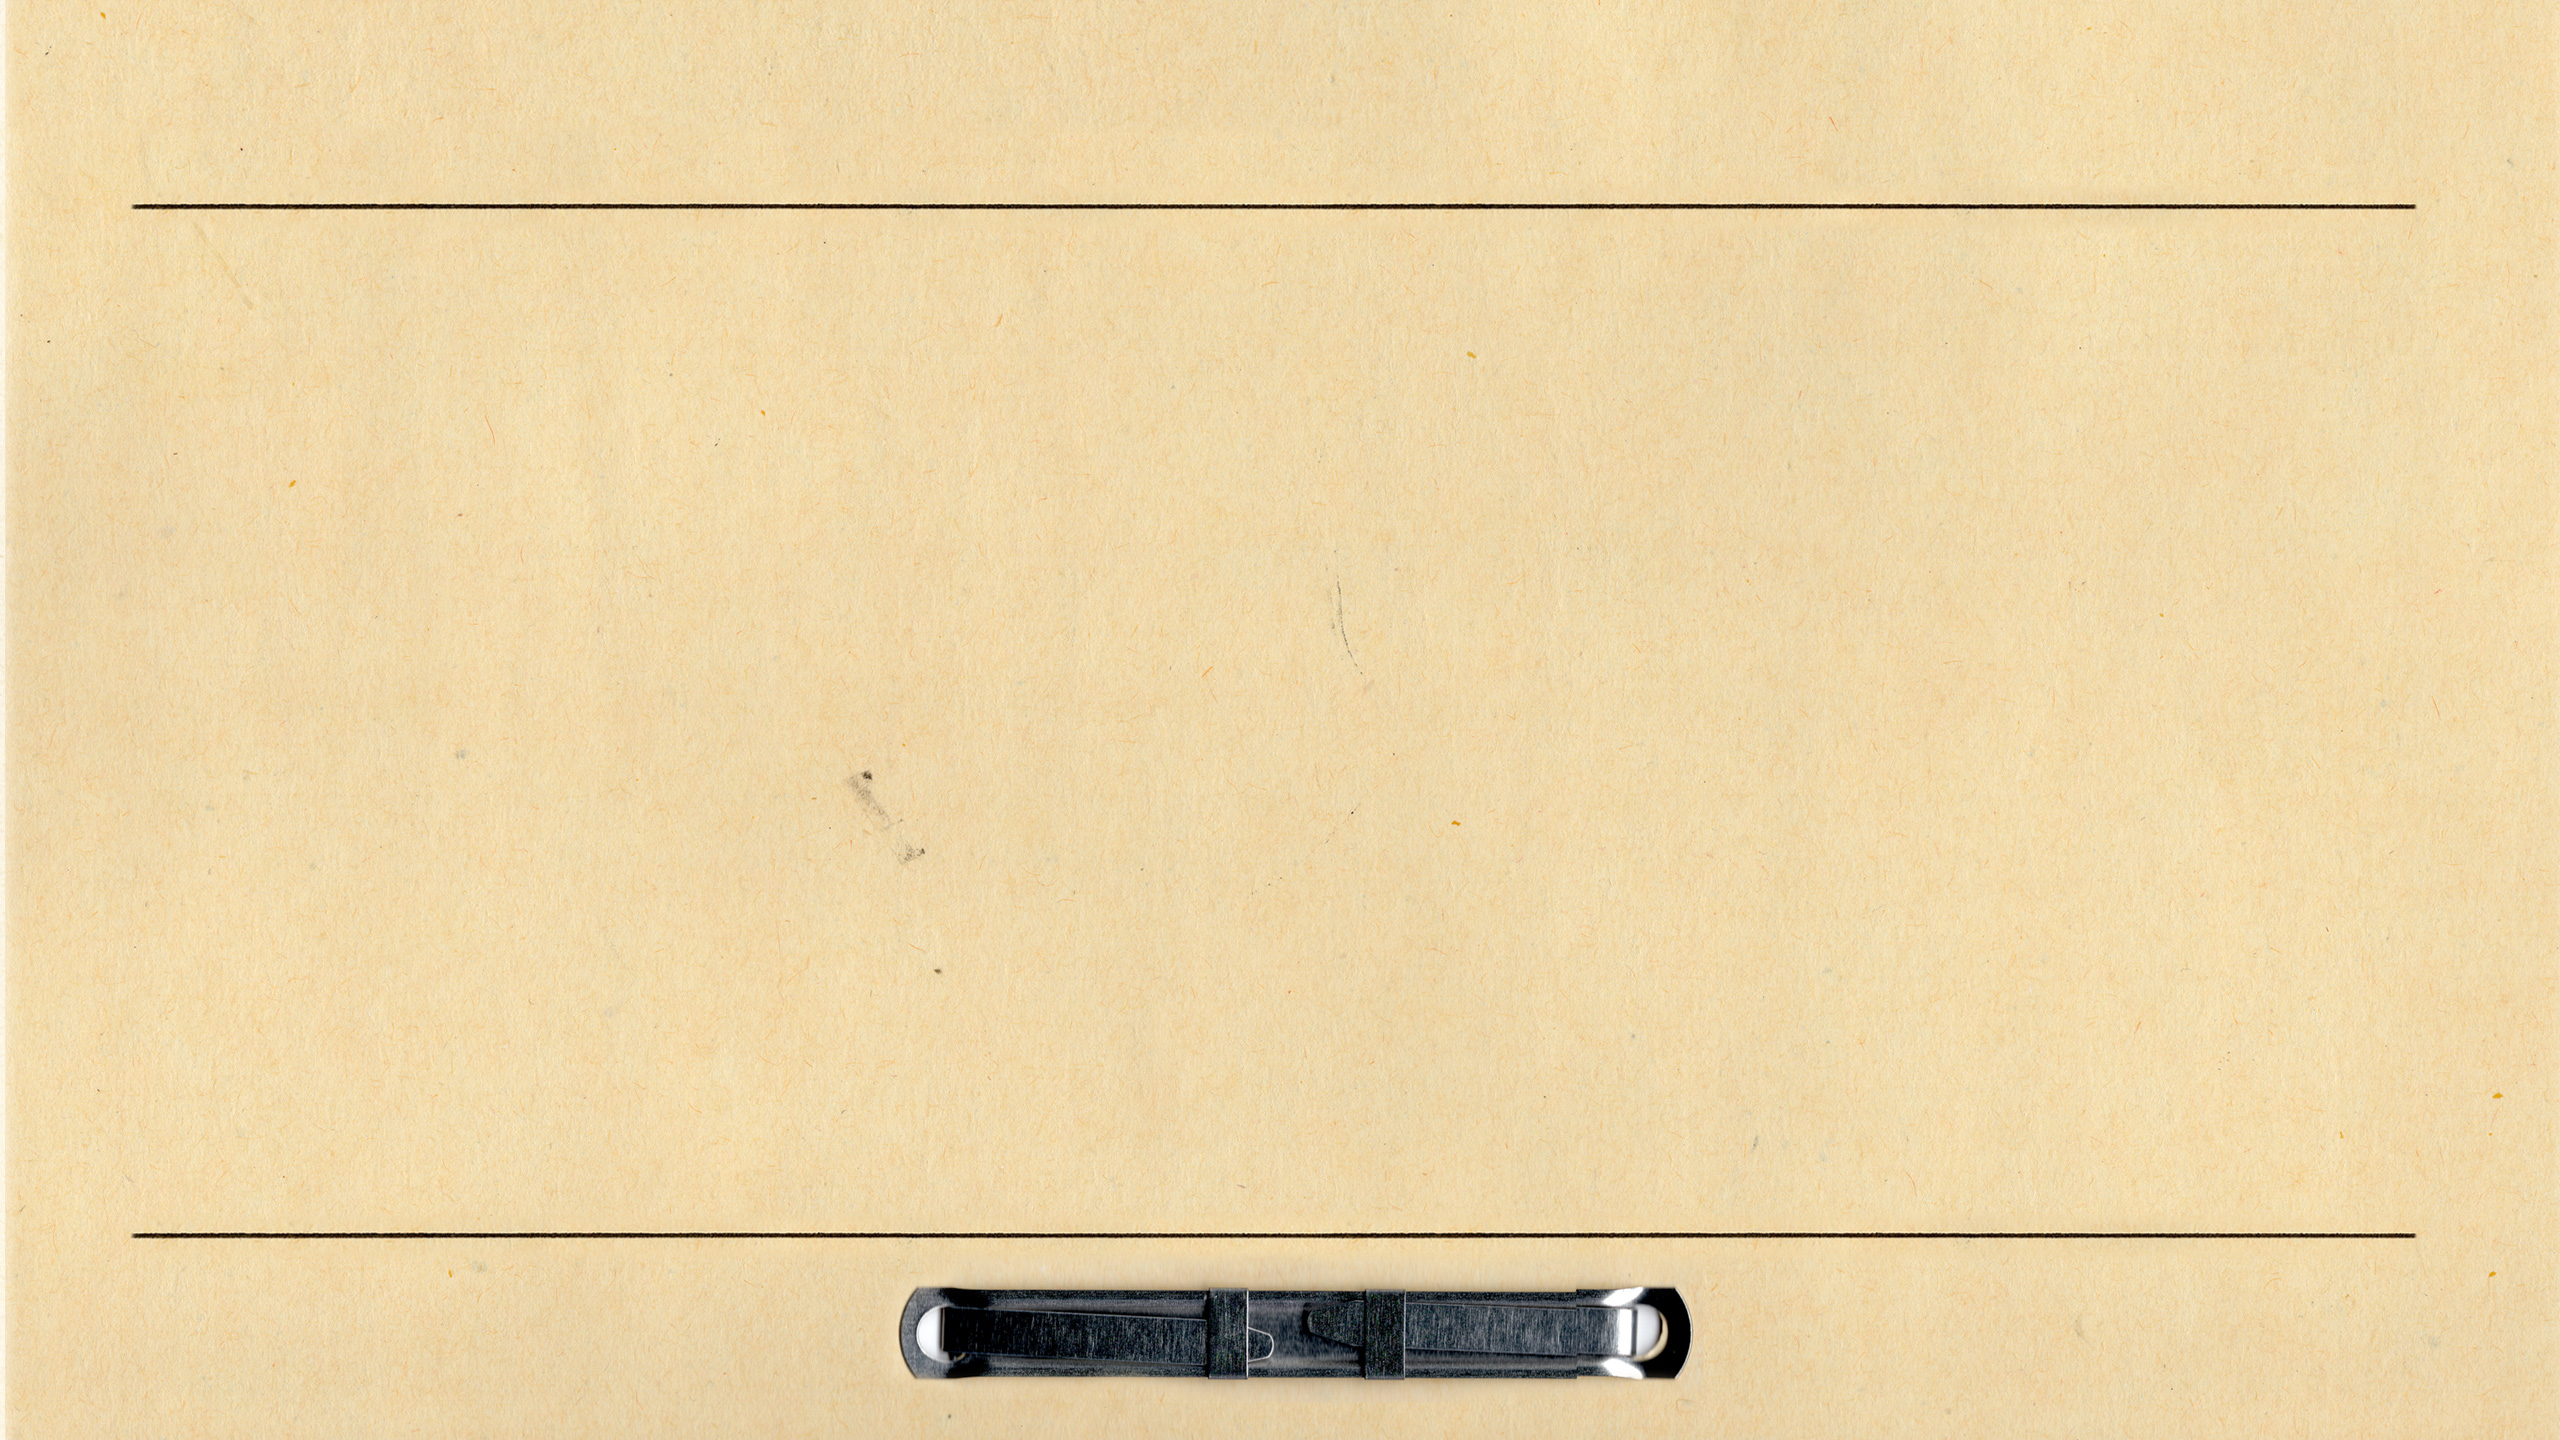
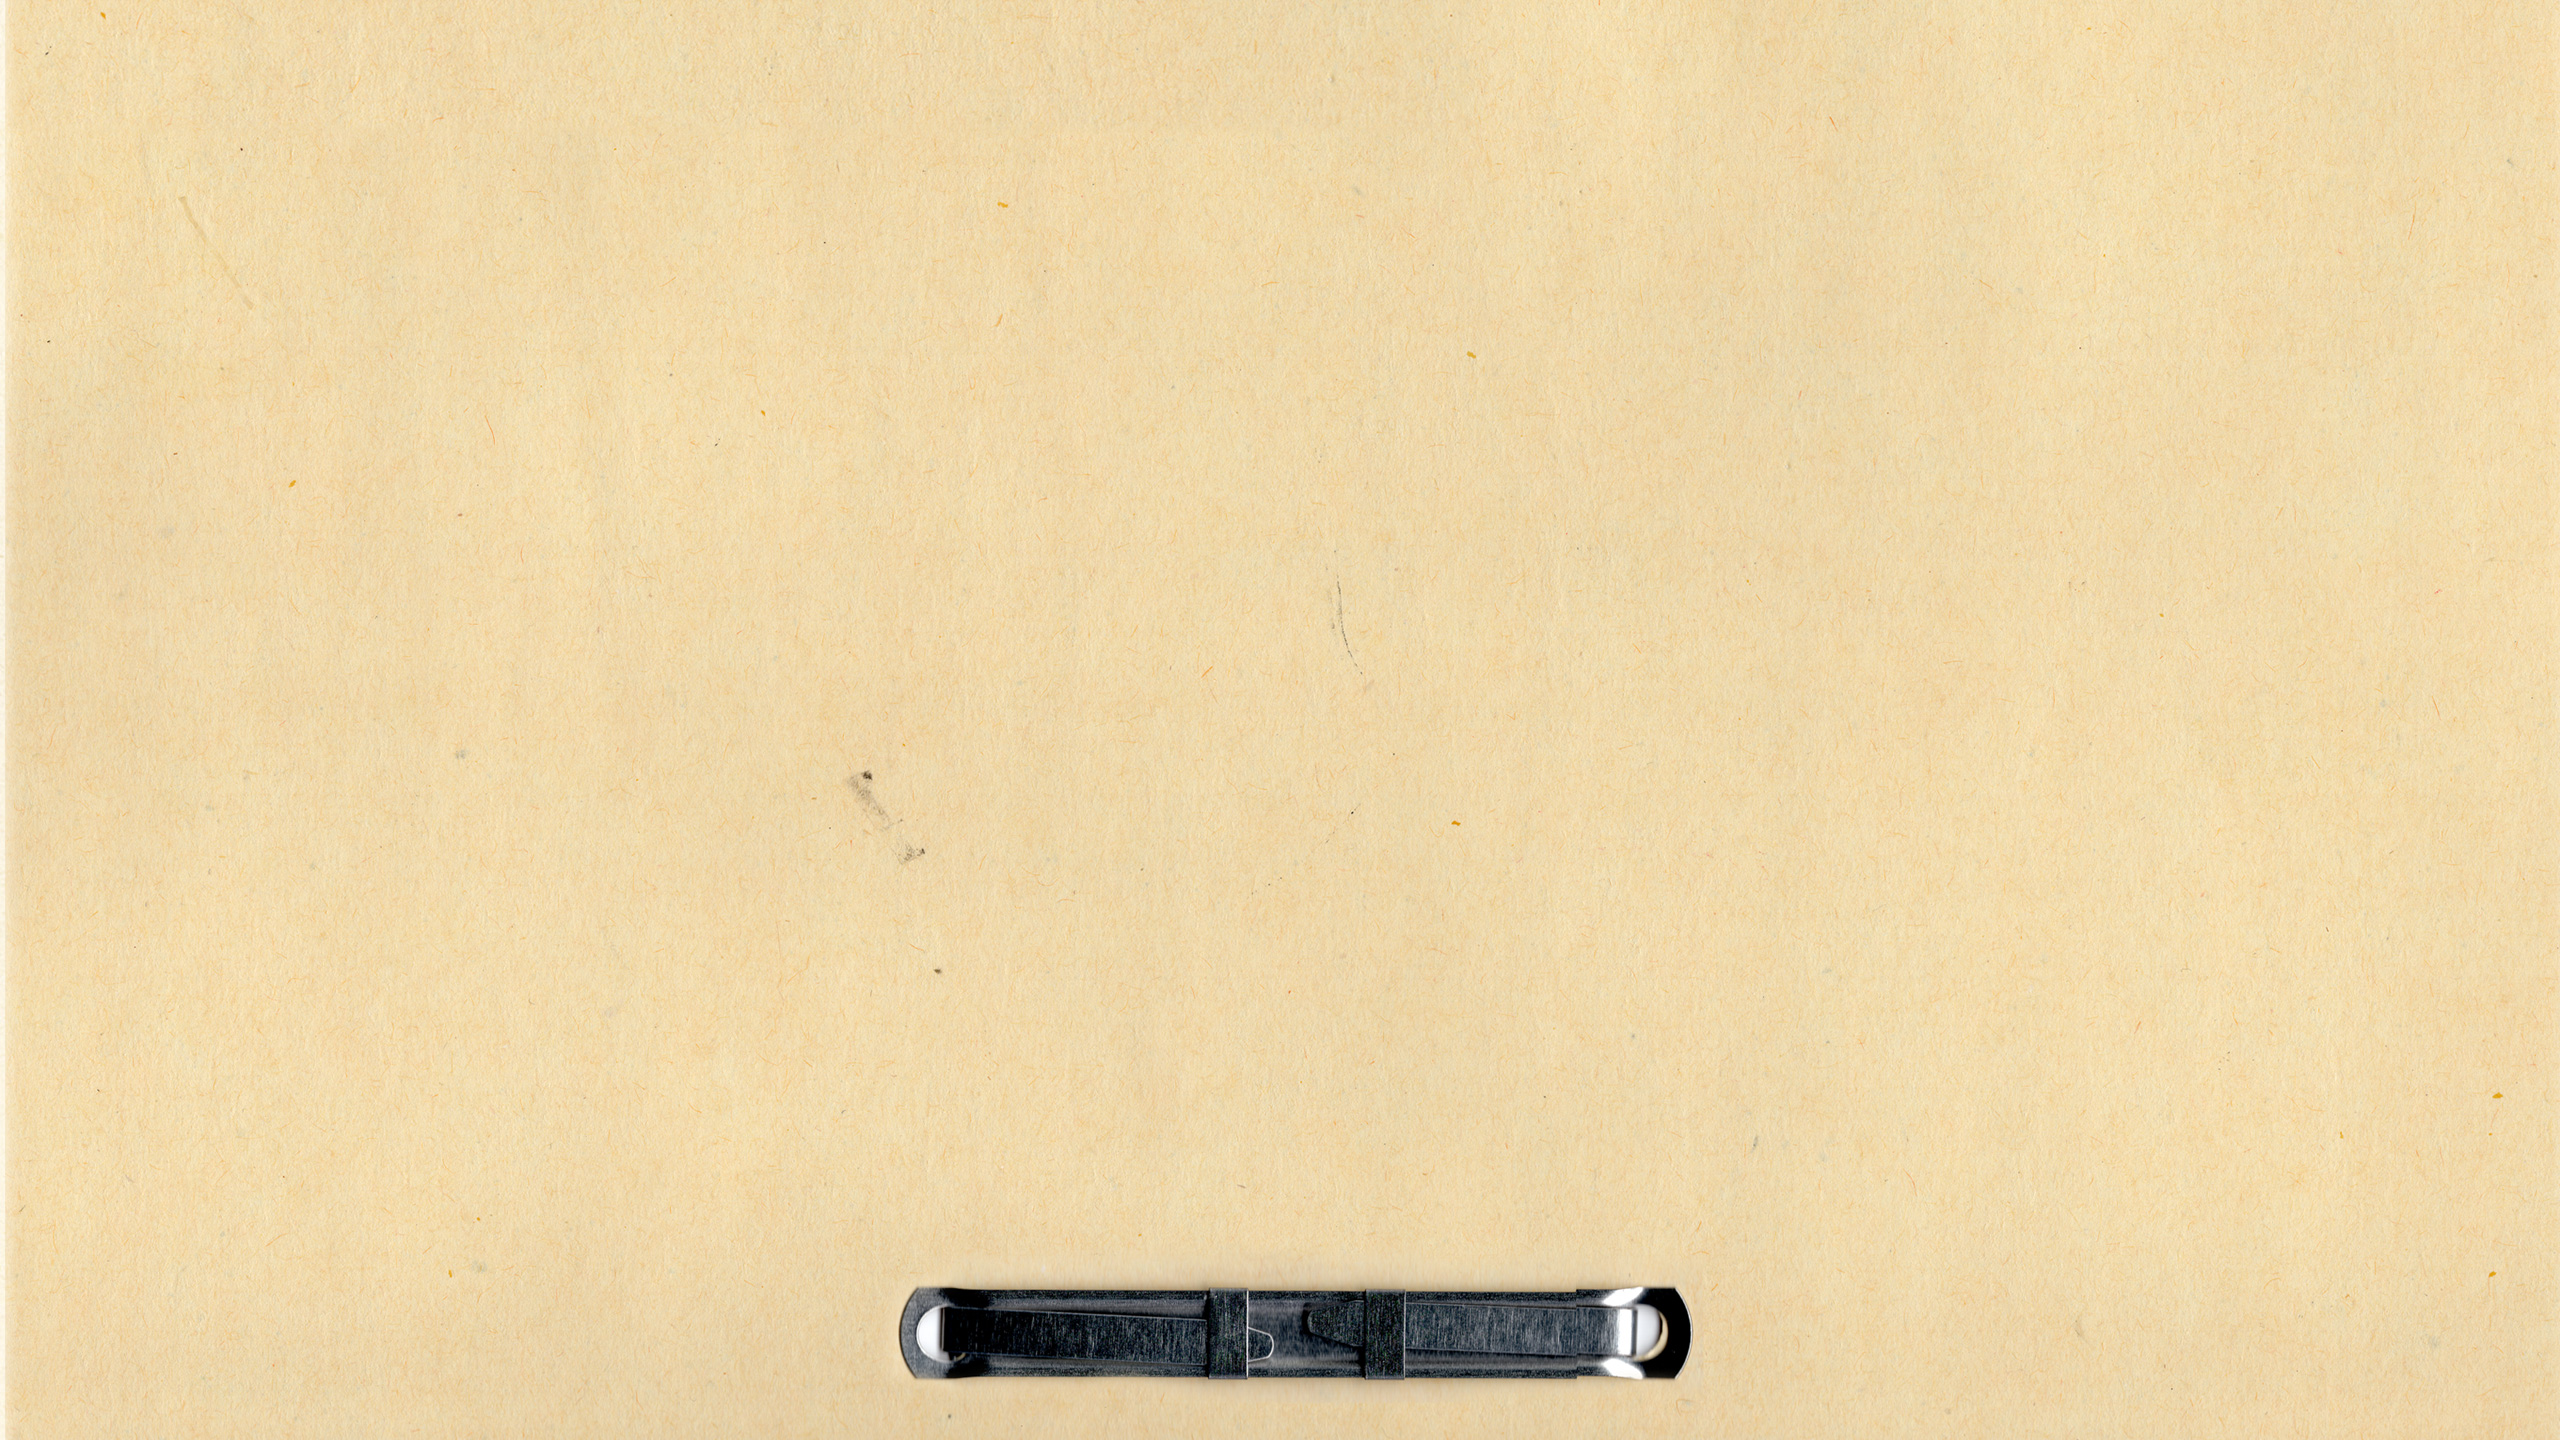
new ba

Changed region(s): [[0.0625, 0.8438, 0.9375, 0.875], [0.0625, 0.125, 0.9375, 0.1562]]

diff --git a/exhibition.html b/exhibition.html
@@ -23,70 +23,6 @@
 
     <article class="exhibition-content">
 
-      <section lang="es">
-        <h2>Recomendaciones para disfrutar de AFRONTACIONES</h2>
-
-        <p>
-          La exhibición Afrontaciones se presenta como un espacio de encuentro
-          donde el arte contemporáneo despliega un poder radical: la capacidad
-          de generar realidades a partir del espectador. Esta muestra no se
-          ofrece como un conjunto de obras que esperan ser descifradas, sino
-          como un territorio donde la percepción se convierte en el verdadero
-          material físico; por eso recomendamos:
-        </p>
-
-        <ol>
-          <li>
-            <strong>Salta al vacío:</strong>
-            Si es verdad que los que saltan al vacío no le deben ninguna
-            explicación a los que se paran a ver, entonces el arte
-            contemporáneo no le debe explicación a ningún espectador que se
-            detenga a mirar lo exhibido. Es así como el arte mismo comienza a
-            crear realidades.
-          </li>
-
-          <li>
-            <strong>Cree:</strong>
-            Afrontaciones es el testimonio que se relata en primera persona,
-            como aquellos que declaran: “Hemos crecido en una familia con
-            muchos, muchos primos y niños”, “Me ha pasado a mí”, “Era peligroso
-            para las mujeres”, “Solía andar en bicicleta”, “Nadie te paraba”,
-            “Se podía viajar tranquilo”. Cualquiera que escuche o lea estas
-            frases tomadas aleatoriamente de las grabaciones que generaron esta
-            exhibición construirá una interpretación libre de lo que, en
-            conjunto, está experimentando mientras navega por los delgados
-            pasillos de la galería.
-          </li>
-
-          <li>
-            <strong>No esperes nada:</strong>
-            No hay nada que explicar mientras miras, con detalle o sin él, los
-            15 segundos que ahora nos toma la obra de la mirada. Lo que sucederá
-            después es lo más interesante porque se refiere a la percepción y,
-            en consecuencia, a la propia interpretación que construirá una
-            realidad: la del espectador.
-          </li>
-
-          <li>
-            <strong>No preguntes:</strong>
-            Se podrían gastar palabras para explicar los motivos de la
-            exhibición, pero no te queremos ahorrar el salto al vacío que es
-            necesario dar mientras transitas el espacio-tiempo de la galería;
-            y, sobre todo, estarías echando a perder tu capacidad como
-            espectador para construir tus propias realidades.
-          </li>
-
-          <li>
-            <strong>No termines la obra aquí:</strong>
-            Llévatela en la memoria, en el sabor, en el olor de al lado, en lo
-            que se te ofreció para degustar, en las opiniones intercambiadas,
-            en las pocas o muchas palabras que quien exhibió te compartió.
-            Después, con tranquilidad, en el momento que quieras, cuando estés
-            listo o lista, recupérala como un recuerdo en la memoria.
-          </li>
-        </ol>
-      </section>
-
       <section lang="en">
         <h2>Recommendations for Enjoying AFRONTACIONES</h2>
 